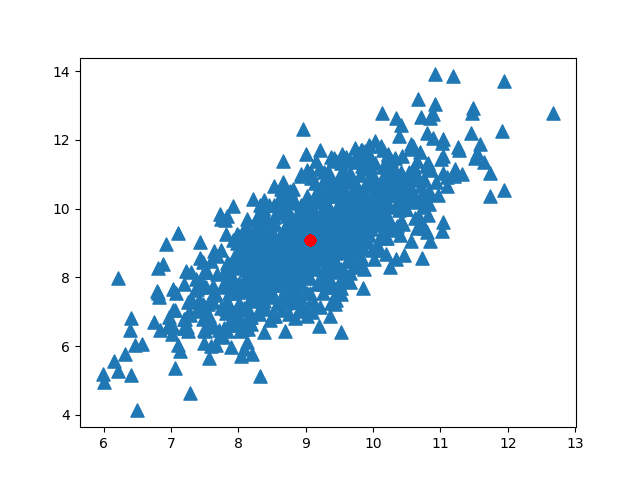
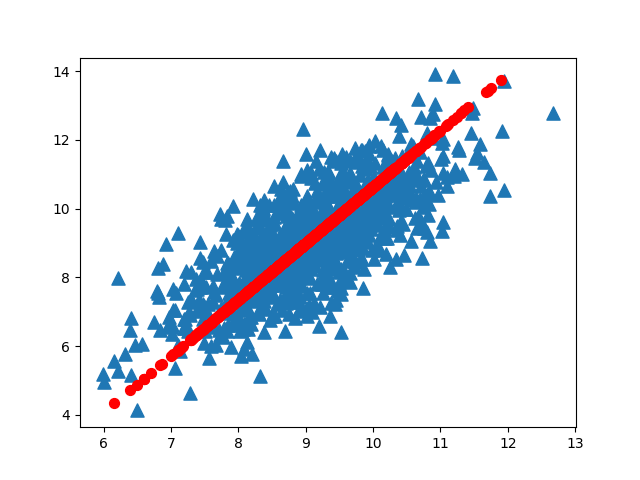
update pca

Changed region(s): [[0.1562, 0.2188, 0.75, 0.875], [0.75, 0.1562, 0.8125, 0.2188]]

diff --git a/Machine-Learning in action/PCA/pca.py b/Machine-Learning in action/PCA/pca.py
@@ -21,7 +21,7 @@ def pca(dataMat, topNfeat=9999999):
 
     # 对前N个特征值进行排序
 	eigValInd = argsort(eigVals)
-	eigValInd = eigValInd[:-(topNfeat):-1]
+	eigValInd = eigValInd[:-(topNfeat+1):-1]
 	redEigVects = eigVects[:,eigValInd]
 	lowDDataMat = meanRemoved * redEigVects
 	reconMat = (lowDDataMat * redEigVects.T) +meanVals
